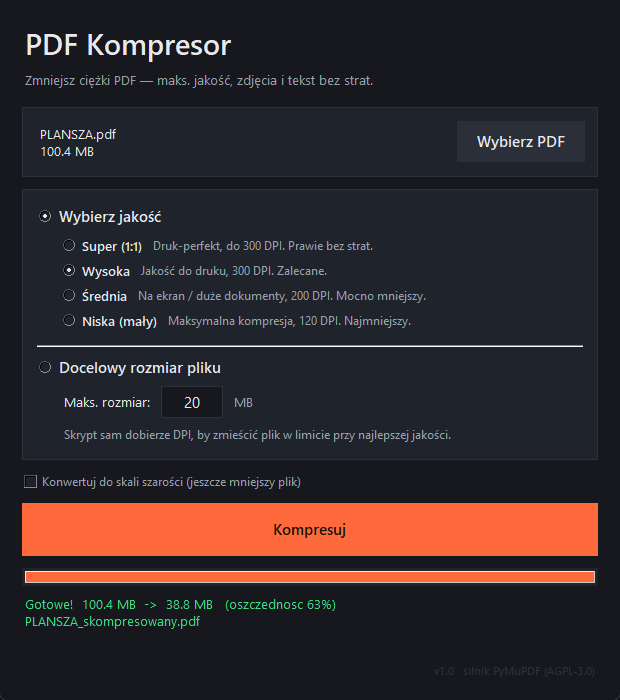
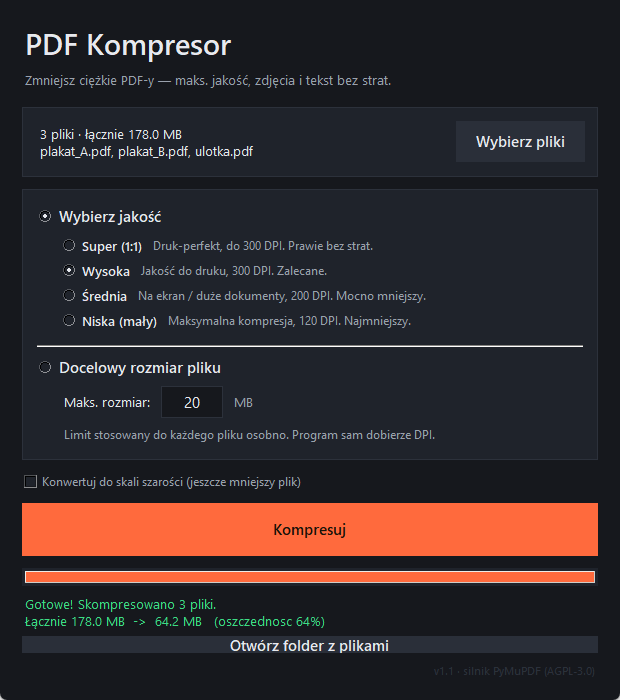
Kompresja wielu plików naraz

diff --git a/pdf_kompresor.py b/pdf_kompresor.py
@@ -8,7 +8,7 @@ import subprocess
 import tkinter as tk
 from tkinter import ttk, filedialog, messagebox
 
-VERSION = "1.0"
+VERSION = "1.1"
 FROZEN = getattr(sys, "frozen", False)
 APP_DIR = (os.path.dirname(sys.executable) if FROZEN
            else os.path.dirname(os.path.abspath(__file__)))
@@ -66,6 +66,14 @@ def unique_path(path):
     return f"{base}_{i}{ext}"
 
 
+def plural_pliki(n):
+    if n == 1:
+        return "plik"
+    if 2 <= n % 10 <= 4 and not 12 <= n % 100 <= 14:
+        return "pliki"
+    return "plików"
+
+
 def quality_for_dpi(dpi):
     q = 50 + (dpi - 60) / (300 - 60) * (95 - 50)
     return int(max(38, min(95, round(q))))
@@ -97,7 +105,7 @@ def compress(src, dst, dpi, quality, gray=False):
 class App:
     def __init__(self, root):
         self.root = root
-        self.src = None
+        self.srcs = []
         self.q = queue.Queue()
         self.busy = False
         self.last_output = None
@@ -140,15 +148,15 @@ class App:
 
         tk.Label(wrap, text="PDF Kompresor", bg=BG, fg=FG,
                  font=("Segoe UI Semibold", 22)).pack(anchor="w")
-        tk.Label(wrap, text="Zmniejsz ciężki PDF — maks. jakość, zdjęcia i tekst bez strat.",
+        tk.Label(wrap, text="Zmniejsz ciężkie PDF-y — maks. jakość, zdjęcia i tekst bez strat.",
                  bg=BG, fg=MUTED, font=("Segoe UI", 10)).pack(anchor="w", pady=(2, 16))
 
         filecard = self._card(wrap)
-        self.file_lbl = tk.Label(filecard, text="Nie wybrano pliku",
+        self.file_lbl = tk.Label(filecard, text="Nie wybrano plików  (możesz wybrać kilka naraz)",
                                  bg=CARD, fg=MUTED, font=("Segoe UI", 10),
-                                 anchor="w", justify="left", wraplength=420)
+                                 anchor="w", justify="left", wraplength=400)
         self.file_lbl.pack(side="left", fill="x", expand=True, padx=(14, 10), pady=14)
-        self._btn(filecard, "Wybierz PDF", self.pick_file, primary=False).pack(
+        self._btn(filecard, "Wybierz pliki", self.pick_files, primary=False).pack(
             side="right", padx=(0, 12), pady=12)
 
         modecard = self._card(wrap, pady=(12, 0))
@@ -184,9 +192,8 @@ class App:
         ent.bind("<FocusIn>", lambda e: self.mode.set("rozmiar"))
         tk.Label(trow, text="MB", bg=CARD, fg=MUTED,
                  font=("Segoe UI", 10)).pack(side="left")
-        tk.Label(inner, text="Skrypt sam dobierze DPI, by zmieścić plik w limicie "
-                 "przy najlepszej jakości.", bg=CARD, fg=MUTED,
-                 font=("Segoe UI", 9)).pack(anchor="w", padx=24, pady=(4, 0))
+        tk.Label(inner, text="Limit stosowany do każdego pliku osobno. Program sam dobierze DPI.",
+                 bg=CARD, fg=MUTED, font=("Segoe UI", 9)).pack(anchor="w", padx=24, pady=(4, 0))
 
         tk.Checkbutton(wrap, text="Konwertuj do skali szarości (jeszcze mniejszy plik)",
                        variable=self.gray, bg=BG, fg=MUTED, selectcolor=CARD,
@@ -203,7 +210,7 @@ class App:
                                anchor="w", justify="left", wraplength=540)
         self.status.pack(fill="x")
 
-        self.open_btn = self._btn(wrap, "Otwórz folder z plikiem",
+        self.open_btn = self._btn(wrap, "Otwórz folder z plikami",
                                   self.open_folder, primary=False)
 
         tk.Label(wrap, text=f"v{VERSION} · silnik PyMuPDF (AGPL-3.0)", bg=BG, fg=BORDER,
@@ -232,18 +239,29 @@ class App:
         b.bind("<Leave>", lambda e: b.config(bg=bg) if str(b["state"]) != "disabled" else None)
         return b
 
-    def pick_file(self):
-        path = filedialog.askopenfilename(
-            title="Wybierz plik PDF",
+    def pick_files(self):
+        paths = filedialog.askopenfilenames(
+            title="Wybierz pliki PDF (możesz zaznaczyć kilka)",
             filetypes=[("Pliki PDF", "*.pdf"), ("Wszystkie pliki", "*.*")])
-        if path:
-            self.src = path
-            size = mb(os.path.getsize(path))
-            self.file_lbl.config(
-                text=f"{os.path.basename(path)}\n{size:.1f} MB", fg=FG)
+        if paths:
+            self.srcs = list(paths)
+            self._show_selection()
             self.open_btn.pack_forget()
             self.status.config(text="", fg=MUTED)
             self.bar["value"] = 0
+
+    def _show_selection(self):
+        n = len(self.srcs)
+        if n == 1:
+            sz = mb(os.path.getsize(self.srcs[0]))
+            self.file_lbl.config(text=f"{os.path.basename(self.srcs[0])}\n{sz:.1f} MB", fg=FG)
+        else:
+            tot = sum(os.path.getsize(p) for p in self.srcs)
+            names = ", ".join(os.path.basename(p) for p in self.srcs[:3])
+            if n > 3:
+                names += f" … (+{n - 3})"
+            self.file_lbl.config(
+                text=f"{n} {plural_pliki(n)} · łącznie {mb(tot):.1f} MB\n{names}", fg=FG)
 
     def start(self):
         if self.busy:
@@ -253,8 +271,8 @@ class App:
                                  "Nie znaleziono PyMuPDF. Uruchom przez plik .exe "
                                  "albo zostaw folder „libs” obok skryptu.")
             return
-        if not self.src:
-            messagebox.showwarning("Brak pliku", "Najpierw wybierz plik PDF.")
+        if not self.srcs:
+            messagebox.showwarning("Brak plików", "Najpierw wybierz pliki PDF.")
             return
         target = None
         if self.mode.get() == "rozmiar":
@@ -278,26 +296,38 @@ class App:
         t.start()
 
     def _work(self, target):
-        try:
-            src = self.src
-            base, _ = os.path.splitext(src)
-            orig = os.path.getsize(src)
-            gray = self.gray.get()
+        srcs = list(self.srcs)
+        n = len(srcs)
+        gray = self.gray.get()
+        results = []
+        fails = []
+        for idx, src in enumerate(srcs, 1):
+            name = os.path.basename(src)
+            prefix = f"Plik {idx}/{n} — {name}: " if n > 1 else ""
+            try:
+                base, _ = os.path.splitext(src)
+                orig = os.path.getsize(src)
+                if target is None:
+                    key = self.preset.get()
+                    _k, label, dpi, q, _d = next(p for p in PRESETS if p[0] == key)
+                    dst = unique_path(f"{base}_skompresowany.pdf")
+                    self.q.put(("status",
+                                f"{prefix}kompresja ({label})... to może chwilę potrwać.", MUTED))
+                    new = compress(src, dst, dpi, q, gray)
+                    note = None
+                else:
+                    dst, new, note = self._compress_to_target(src, base, orig, target, gray, prefix)
+                results.append((orig, new, dst, note))
+                self.last_output = dst
+            except Exception as e:
+                fails.append(f"{name}: {e}")
 
-            if target is None:
-                key = self.preset.get()
-                _k, label, dpi, q, _d = next(p for p in PRESETS if p[0] == key)
-                dst = unique_path(f"{base}_skompresowany.pdf")
-                self.q.put(("status",
-                            f"Kompresja obrazów ({label})... to może chwilę potrwać.", MUTED))
-                compress(src, dst, dpi, q, gray)
-                self._finish(orig, dst)
-            else:
-                self._work_target(src, base, orig, target, gray)
-        except Exception as e:
-            self.q.put(("error", str(e)))
+        if not results:
+            self.q.put(("error", "; ".join(fails) or "nie udało się skompresować"))
+        else:
+            self.q.put(("done", self._summary(results, fails)))
 
-    def _work_target(self, src, base, orig, target_mb, gray):
+    def _compress_to_target(self, src, base, orig, target_mb, gray, prefix):
         target_bytes = target_mb * 1024 * 1024
         tmpdir = tempfile.mkdtemp(prefix="pdfkompresor_")
         lo, hi = 60, 300
@@ -311,11 +341,9 @@ class App:
                 dpi = (lo + hi) // 2
                 q = quality_for_dpi(dpi)
                 tmp = os.path.join(tmpdir, f"try_{dpi}.pdf")
-                self.q.put(("status",
-                            f"Próba {attempt}: DPI {dpi} (jakość {q})...", MUTED))
+                self.q.put(("status", f"{prefix}próba {attempt}: DPI {dpi} (jakość {q})...", MUTED))
                 size = compress(src, tmp, dpi, q, gray)
-                self.q.put(("status",
-                            f"Próba {attempt}: DPI {dpi} -> {mb(size):.1f} MB", MUTED))
+                self.q.put(("status", f"{prefix}próba {attempt}: DPI {dpi} -> {mb(size):.1f} MB", MUTED))
                 if smallest is None or size < smallest[2]:
                     smallest = (dpi, tmp, size)
                 if size <= target_bytes:
@@ -330,26 +358,36 @@ class App:
             shutil.copyfile(chosen[1], dst)
             note = None
             if best is None:
-                note = (f"Nie udało się zejść do {target_mb:.0f} MB nawet przy "
-                        f"DPI 60 — zapisano najmniejszy możliwy wynik.")
-            self._finish(orig, dst, note=note)
+                note = (f"nie udało się zejść do {target_mb:.0f} MB — zapisano "
+                        f"najmniejszy możliwy wynik")
+            return dst, os.path.getsize(dst), note
         finally:
             shutil.rmtree(tmpdir, ignore_errors=True)
 
-    def _finish(self, orig, dst, note=None):
-        new = os.path.getsize(dst)
-        saved = (1 - new / orig) * 100 if orig else 0
-        self.last_output = dst
-        if new >= orig:
-            msg = (f"Gotowe, ale plik nie zmalał ({mb(orig):.1f} MB -> {mb(new):.1f} MB).\n"
-                   f"Ten PDF ma mało obrazów do kompresji albo są już małe.\n"
-                   f"{os.path.basename(dst)}")
-        else:
-            msg = (f"Gotowe!  {mb(orig):.1f} MB  ->  {mb(new):.1f} MB"
-                   f"   (oszczędność {saved:.0f}%)\n{os.path.basename(dst)}")
-        if note:
-            msg += "\n" + note
-        self.q.put(("done", msg))
+    def _summary(self, results, fails):
+        n_ok = len(results)
+        tot_o = sum(r[0] for r in results)
+        tot_n = sum(r[1] for r in results)
+        if n_ok == 1 and not fails:
+            orig, new, dst, note = results[0]
+            saved = (1 - new / orig) * 100 if orig else 0
+            if new >= orig:
+                msg = (f"Gotowe, ale plik nie zmalał ({mb(orig):.1f} MB -> {mb(new):.1f} MB).\n"
+                       f"Ten PDF ma mało obrazów do kompresji albo są już małe.\n"
+                       f"{os.path.basename(dst)}")
+            else:
+                msg = (f"Gotowe!  {mb(orig):.1f} MB  ->  {mb(new):.1f} MB"
+                       f"   (oszczędność {saved:.0f}%)\n{os.path.basename(dst)}")
+            if note:
+                msg += "\n(" + note + ")"
+            return msg
+
+        saved = (1 - tot_n / tot_o) * 100 if tot_o else 0
+        msg = (f"Gotowe! Skompresowano {n_ok} {plural_pliki(n_ok)}.\n"
+               f"Łącznie {mb(tot_o):.1f} MB  ->  {mb(tot_n):.1f} MB   (oszczędność {saved:.0f}%)")
+        if fails:
+            msg += (f"\nNie powiodło się: {len(fails)} — " + "; ".join(fails))
+        return msg
 
     def _poll_queue(self):
         try:

diff --git a/README.md b/README.md
@@ -1,19 +1,19 @@
 # PDF Kompresor
 
 Mały program na Windows do zmniejszania wagi plików PDF. Zrobiłem go, bo żaden
-darmowy kompresor online nie dawał rady z naprawdę ciężkimi plikami - plakat z
+darmowy kompresor online nie dawał rady z naprawdę ciężkimi plikami. Plakat z
 grafikami potrafił ważyć 100+ MB, a strony albo odbijały się od limitu rozmiaru,
 albo masakrowały jakość zdjęć.
 
 Ten program zmniejsza **tylko obrazy** w PDF (to one zajmują miejsce), a tekst i
-grafikę wektorową zostawia w spokoju - dzięki temu napisy i cienkie linie zawsze
-pozostają ostre.
+grafikę wektorową zostawia w spokoju, więc napisy i cienkie linie zawsze
+pozostają ostre. Można wrzucić **kilka plików naraz**, a program przerobi je po kolei.
 
 ![Okno programu](docs/screenshot.png)
 
 ## Pobranie (bez instalacji)
 
-Gotowy `PDF Kompresor.exe` jest w zakładce **[Releases](../../releases)** - nie
+Gotowy `PDF Kompresor.exe` jest w zakładce **[Releases](../../releases)**. Nie
 wymaga Pythona ani instalacji, pobierasz i klikasz.
 
 > Przy pierwszym uruchomieniu Windows SmartScreen może pokazać ostrzeżenie (plik
@@ -22,11 +22,11 @@ wymaga Pythona ani instalacji, pobierasz i klikasz.
 
 ## Jak używać
 
-1. Wskaż plik PDF.
+1. Wskaż jeden lub kilka plików PDF.
 2. Wybierz jakość albo wpisz docelowy rozmiar (np. „max 35 MB").
 3. Kliknij **Kompresuj**.
 
-Wynik zapisuje się obok oryginału jako `nazwa_skompresowany.pdf` - oryginał
+Wynik zapisuje się obok oryginału jako `nazwa_skompresowany.pdf`, a oryginał
 zostaje nietknięty.
 
 ## Uruchomienie ze źródeł
@@ -44,7 +44,7 @@ python pdf_kompresor.py
 build.bat
 ```
 
-Powstaje `dist/PDF Kompresor.exe` z wbudowanym Pythonem i silnikiem - jeden plik,
+Powstaje `dist/PDF Kompresor.exe` z wbudowanym Pythonem i silnikiem. To jeden plik, który
 działa na każdym Windowsie 64-bit.
 
 ## Jak to działa
@@ -69,5 +69,5 @@ Konkret z życia: plakat B1 ze zdjęciami w 707 DPI, **105 MB → ~39 MB (−63%
 ## Licencja
 
 [AGPL-3.0](LICENSE). Program korzysta z PyMuPDF / MuPDF (© Artifex Software),
-która jest na AGPL - dlatego całość również. Do zastosowań komercyjnych z
+która jest na AGPL, dlatego całość również. Do zastosowań komercyjnych z
 zamkniętym kodem potrzebna jest komercyjna licencja PyMuPDF.
